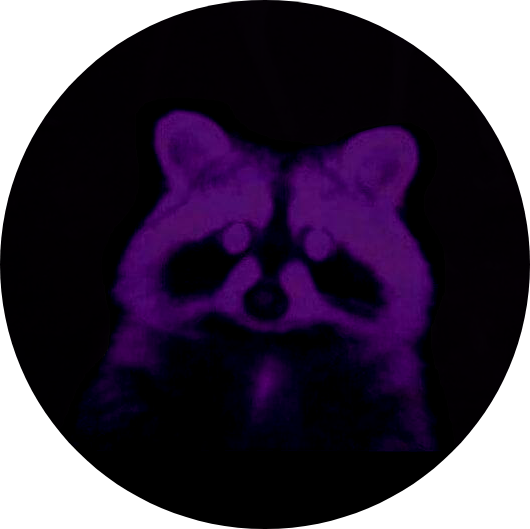
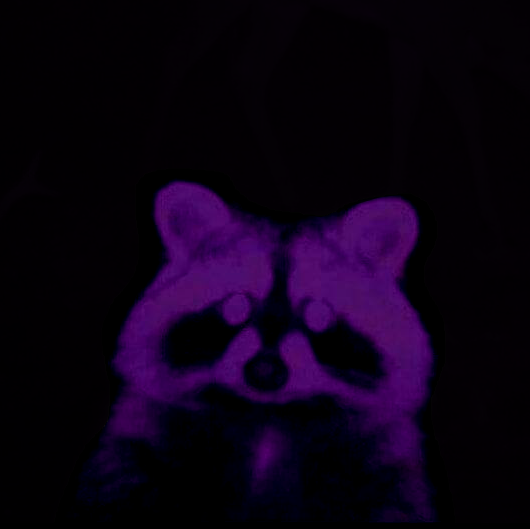
update links page

diff --git a/style/links.css b/style/links.css
@@ -11,6 +11,15 @@
     line-height: .4;
     margin-top: 150px;
 }
+.avatar {
+    width: 12.5%;
+    aspect-ratio: 1 / 1;
+    border-radius: 5%;
+    border: solid 5px rgb(155, 134, 94);
+    margin-bottom: -20px;
+    user-select: none;
+    -webkit-user-drag: none;
+}
 .hello {
     color:rgb(255, 231, 216);
     font-size:70px;
@@ -113,13 +122,20 @@ body {
 /*For vertical screens like mobile*/
 @media (max-width: 768px) and (orientation: portrait), (max-aspect-ratio: 3/4) {
     .link-main-bar {
-        padding-left: 11%;
+        padding-left: 67.5px;
         padding-right: 5%;
+        font-size: 20px;
     }
     .LinksContainer2 {
         width: 90%;
     }
     .link {
-        height: 5%;
+        height: 65px;
+    }
+    .hello {
+        font-size:50px;
+    }
+    .these {
+        font-size:40px;
     }
 }

diff --git a/links.html b/links.html
@@ -4,13 +4,13 @@
 <html>
     <head>
         <title>TaXi0k's links</title>
-        <link rel="icon" type="image/png" href="img/avatar.png" >
+        <link rel="icon" type="image/png" href="img/favicon.png" >
         <link rel="stylesheet" href="style/main.css">
         <link rel="stylesheet" href="style/links.css">
     </head>
     <body>
         <div class="header">
-            <img>
+            <img alt="my avatar - purple raccoon on black bacground" src="img/avatar.png" class="avatar">
             <p class="hello">Hi! I'm <span style="color:rgb(223, 192, 135);">TaXi0k</span></p>
             <p class="these">and these are my</p>
             <img src="img/Links.svg" class="links">
